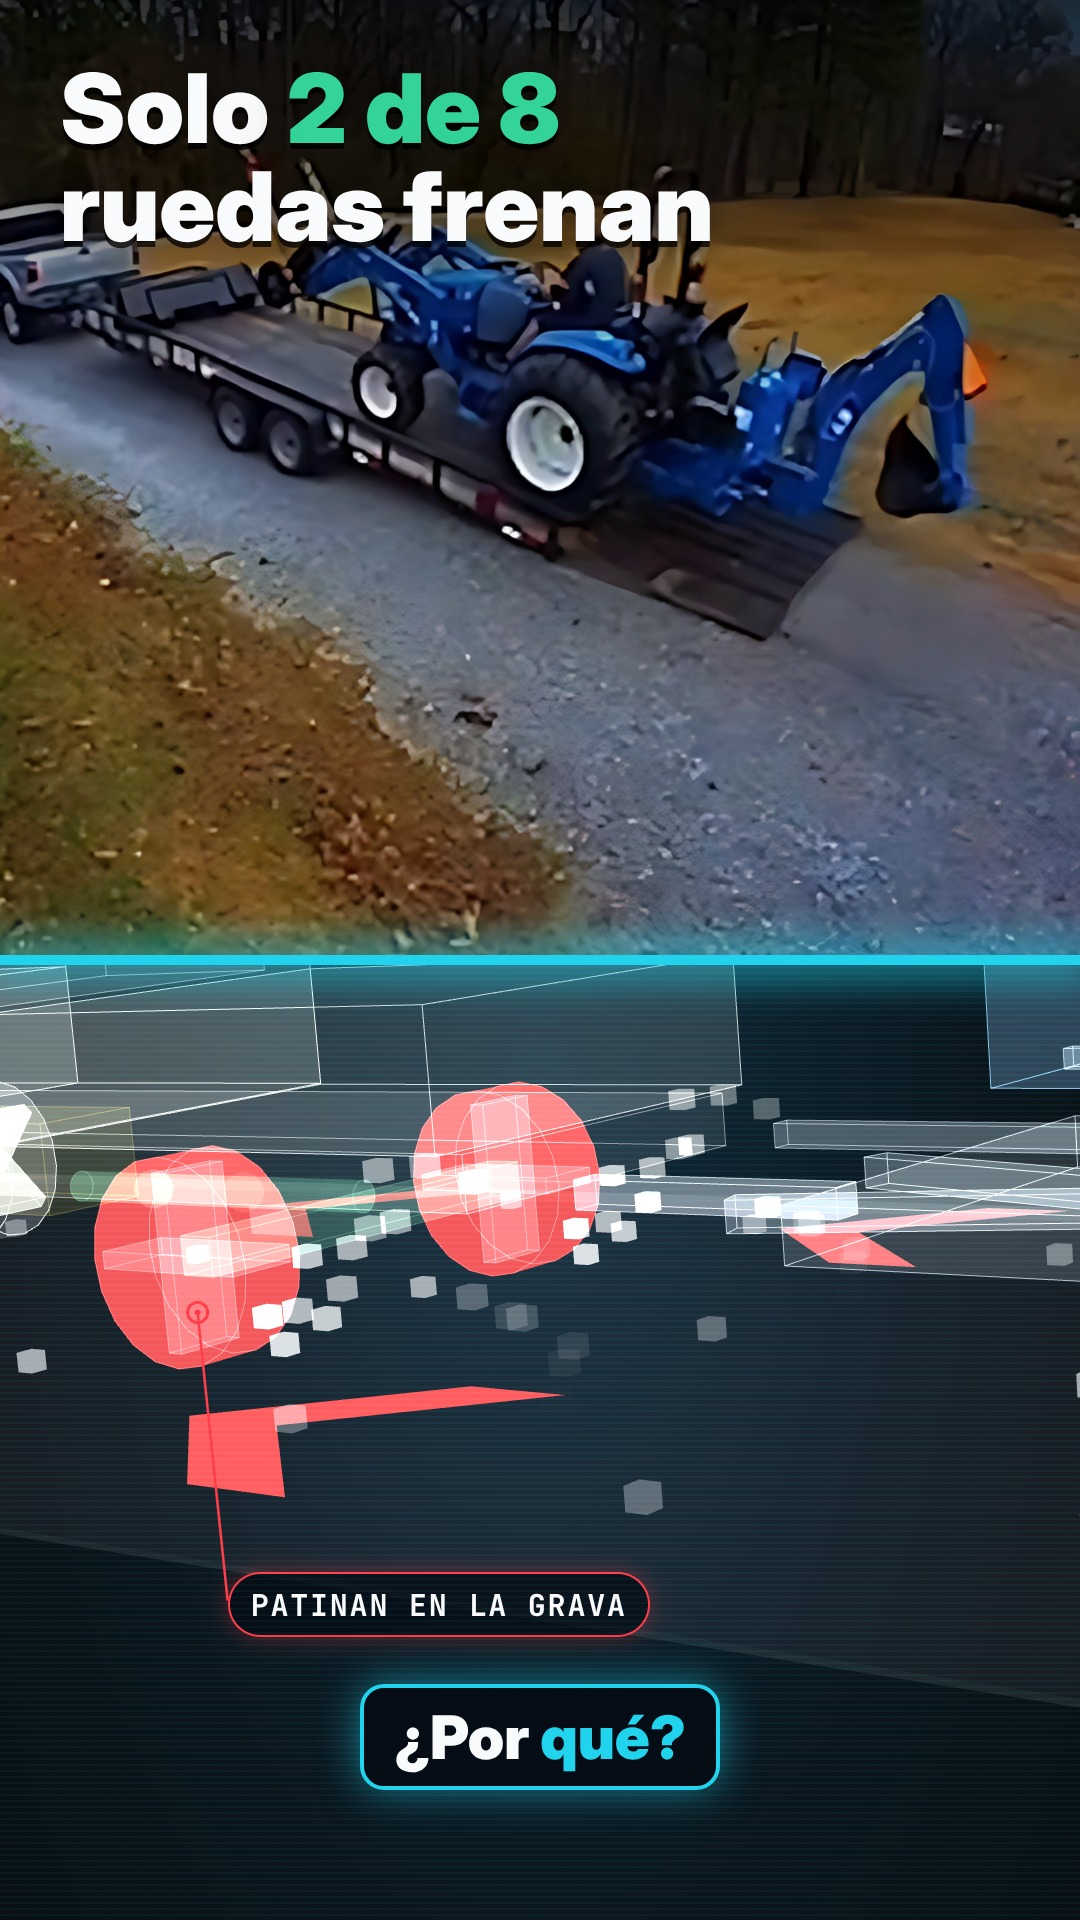
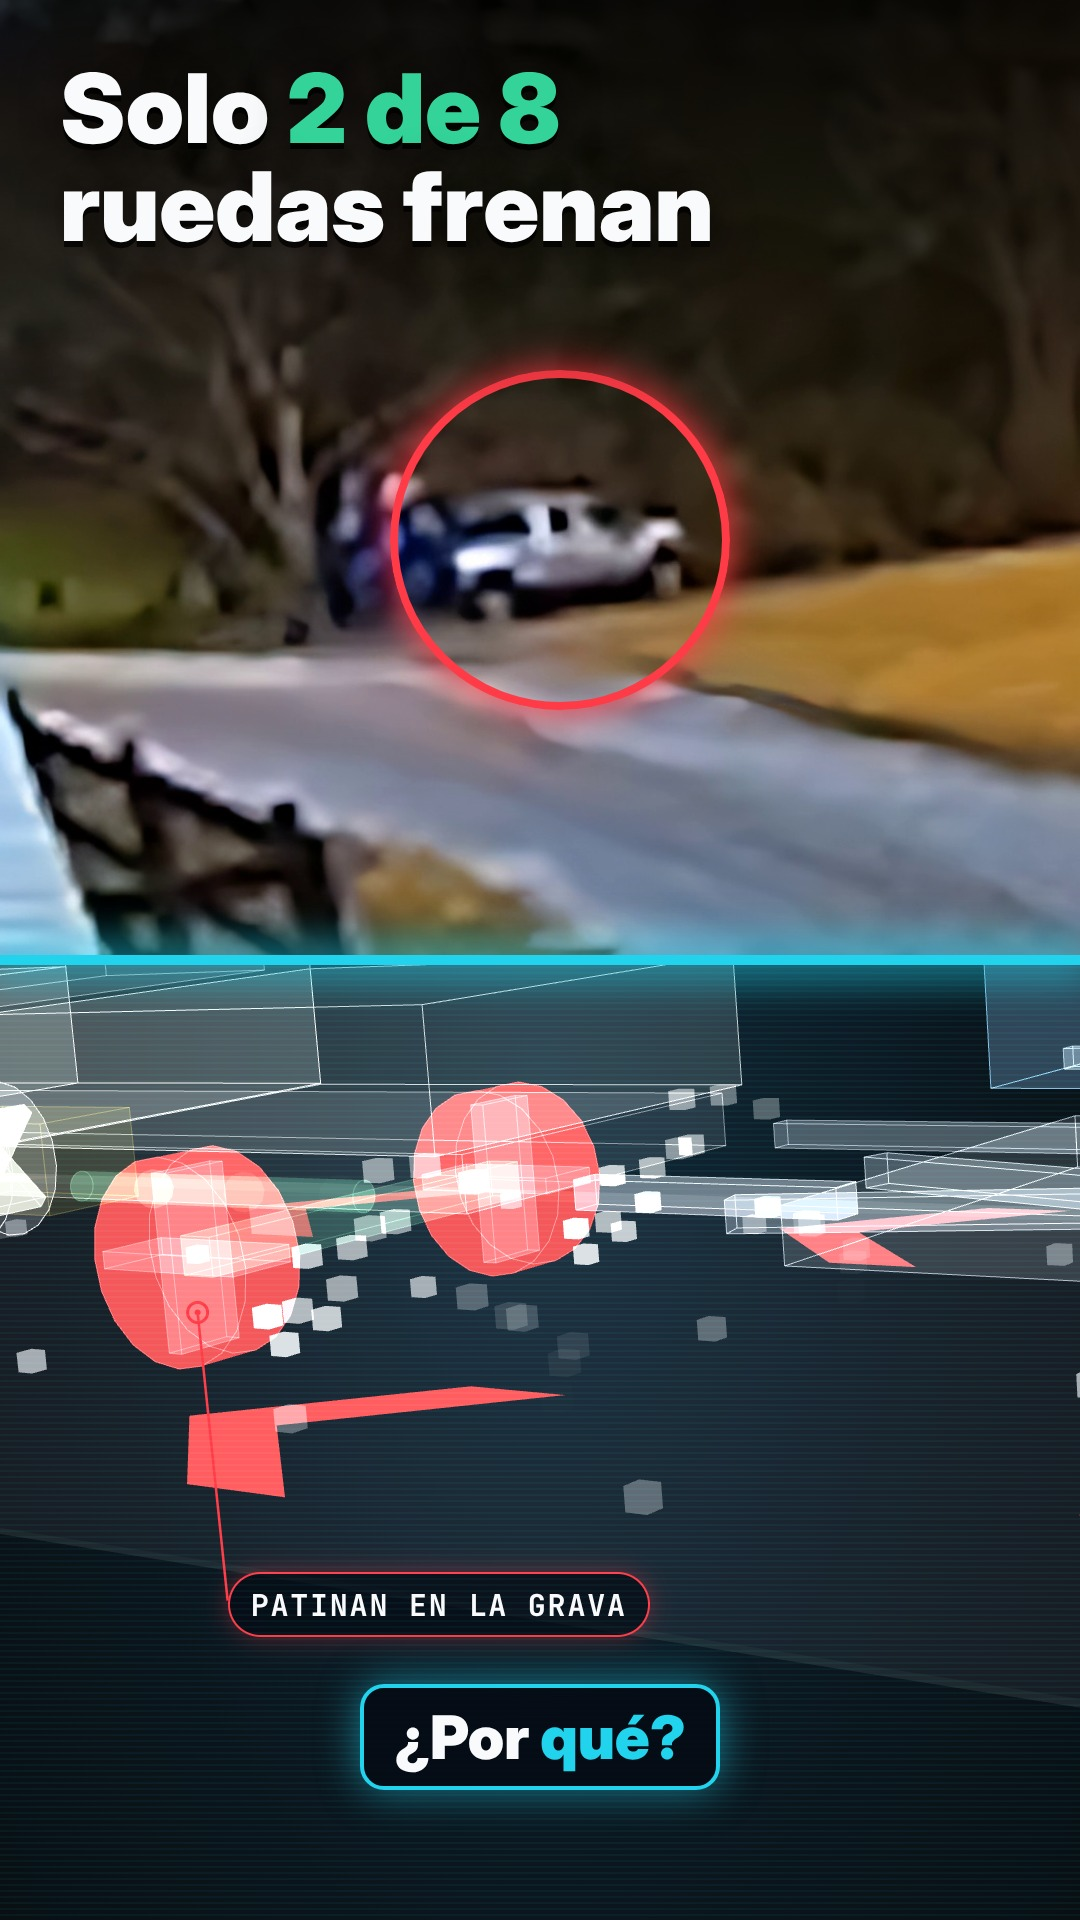
Video 09: gancho con zoom al choque y su sonido, video más grande, textos centrados en los márgenes
Claude-Session: https://claude.ai/code/session_012cMjytTKqNjFhryXJNqEWF

diff --git a/src/porquepaso/p09/Gancho.tsx b/src/porquepaso/p09/Gancho.tsx
@@ -2,26 +2,39 @@ import React from 'react';
 import {AbsoluteFill, OffthreadVideo, Sequence, interpolate, spring, staticFile, useCurrentFrame, useVideoConfig} from 'remotion';
 import {C, MONO, TITULAR} from '../estilo';
 import {Pastilla, Reticula} from '../hud';
-import {A_INI, DURACION_GANCHO, FRENO, REPE_INI, SEG} from './tiempos';
+import {A_INI, B_INI, CHOQUE, C_INI, DURACION_GANCHO, FRENO, SEG} from './tiempos';
 export {SEG, DURACION_GANCHO};
 
-// Gancho del video 09: la cámara de seguridad de la casa graba cómo la camioneta y el tráiler se van solos.
+// Gancho del video 09: la cámara de seguridad graba cómo la camioneta y el tráiler se van solos… y chocan abajo.
 const clamp = {extrapolateLeft: 'clamp', extrapolateRight: 'clamp'} as const;
-export const TOP = 440; // el monitor ocupa desde aquí
-export const ALTO = 900;
+export const TOP = 370; // el monitor ocupa de 370 a 1410
+export const ALTO = 1040;
 const ESC = ALTO / 750; // la franja original es 1080×750
-const IZQ = -60; // recorte a la izquierda (el alero de la casa)
+const IZQ = -150; // recorte a la izquierda (el alero de la casa)
 
-export const Monitor: React.FC<{desde: number; velocidad?: number; oscuro?: number; zoom?: number}> = ({desde, velocidad = 1, oscuro = 0, zoom = 1}) => {
+export const Monitor: React.FC<{clip?: 'A' | 'C'; desde: number; velocidad?: number; oscuro?: number; zoom?: number; temblor?: number}> = ({
+  clip = 'A',
+  desde,
+  velocidad = 1,
+  oscuro = 0,
+  zoom = 1,
+  temblor = 0,
+}) => {
   const f = useCurrentFrame();
   const v = (estilo: React.CSSProperties) => (
-    <OffthreadVideo src={staticFile('porquepaso/p09/A.mp4')} muted trimBefore={desde} playbackRate={velocidad} style={estilo} />
+    <OffthreadVideo src={staticFile(`porquepaso/p09/${clip}.mp4`)} muted trimBefore={desde} playbackRate={velocidad} style={estilo} />
   );
+  const dx = Math.sin(f * 2.3) * 14 * temblor;
+  const dy = Math.cos(f * 3.1) * 10 * temblor;
+  const caja: React.CSSProperties =
+    clip === 'A'
+      ? {position: 'absolute', left: IZQ, top: 0, width: 1080 * ESC, height: ALTO, transformOrigin: '30% 30%'}
+      : {position: 'absolute', left: 0, top: 0, width: 1080, height: ALTO, transformOrigin: '48% 58%'};
   return (
     <AbsoluteFill>
       <div style={{position: 'absolute', inset: -80, filter: 'blur(40px) brightness(0.45)'}}>{v({width: '100%', height: '100%', objectFit: 'cover'})}</div>
       <div style={{position: 'absolute', left: 0, top: TOP, width: 1080, height: ALTO, overflow: 'hidden', boxShadow: `0 0 0 3px ${C.cian}88, 0 0 60px ${C.cian}33`}}>
-        <div style={{position: 'absolute', left: IZQ, top: 0, width: 1080 * ESC, height: ALTO, transform: `scale(${zoom})`, transformOrigin: '25% 30%'}}>{v({width: 1080 * ESC, height: ALTO})}</div>
+        <div style={{...caja, transform: `translate(${dx}px, ${dy}px) scale(${zoom})`}}>{v({width: caja.width as number, height: ALTO, objectFit: 'cover'})}</div>
         <AbsoluteFill style={{background: `rgba(0,0,0,${oscuro})`}} />
         <div style={{position: 'absolute', left: 24, top: 20, display: 'flex', alignItems: 'center', gap: 12, fontFamily: MONO, fontWeight: 700, fontSize: 26, color: C.blanco, textShadow: '0 2px 6px #000'}}>
           <span style={{width: 18, height: 18, borderRadius: 9, background: C.rojo, opacity: Math.floor(f / 15) % 2 ? 0.3 : 1}} />
@@ -38,10 +51,13 @@ export const aPantalla = (x: number, y: number): [number, number] => [x * ESC + 
 export const Gancho: React.FC = () => {
   const frame = useCurrentFrame();
   const {fps} = useVideoConfig();
-  const tb = frame - SEG.B.desde;
-  const enRepeticion = tb >= 0;
+  const tc = frame - SEG.C.desde;
+  const enZoom = tc >= 0;
   const tw = frame - FRENO;
-  const barrido = interpolate(tb, [SEG.B.dur - 16, SEG.B.dur], [-80, 2000], clamp);
+  const tch = frame - CHOQUE;
+  const flash = interpolate(tch, [0, 2, 10], [0, 0.55, 0], clamp);
+  const temblor = interpolate(tch, [0, 1, 14], [0, 1, 0], clamp);
+  const barrido = interpolate(tc, [SEG.C.dur - 16, SEG.C.dur], [-80, 2000], clamp);
 
   return (
     <AbsoluteFill style={{background: '#000'}}>
@@ -49,23 +65,28 @@ export const Gancho: React.FC = () => {
         <Monitor desde={A_INI} />
       </Sequence>
       <Reticula centro={aPantalla(250, 215)} radio={95} color={C.ambar} inicio={84} fin={SEG.A.dur - 4} etiqueta="Se mueve sola" ladoEtiqueta="der" />
-      {/* Repetición en cámara lenta: empieza a rodar y el señor salta del tractor */}
+      {/* el señor salta del tractor y corre detrás */}
       <Sequence from={SEG.B.desde} durationInFrames={SEG.B.dur}>
-        <Monitor desde={REPE_INI} velocidad={0.75} oscuro={interpolate(tb, [0, 12], [0, 0.3], clamp)} zoom={interpolate(tb, [0, SEG.B.dur], [1, 1.12], clamp)} />
+        <Monitor desde={B_INI} />
       </Sequence>
-
-      {enRepeticion && (
-        <div style={{position: 'absolute', left: 60, top: TOP + ALTO - 80, opacity: interpolate(tb, [0, 8], [0, 1], clamp)}}>
+      {/* zoom al final de la entrada: llega abajo, se dobla y choca */}
+      <Sequence from={SEG.C.desde} durationInFrames={SEG.C.dur}>
+        <Monitor clip="C" desde={C_INI} zoom={interpolate(tc, [0, SEG.C.dur], [1, 1.18], clamp)} temblor={temblor} oscuro={interpolate(frame, [CHOQUE + 20, CHOQUE + 36], [0, 0.25], clamp)} />
+      </Sequence>
+      {enZoom && (
+        <div style={{position: 'absolute', left: 40, top: TOP + ALTO - 84, opacity: interpolate(tc, [0, 8], [0, 1], clamp)}}>
           <Pastilla color={C.ambar} punto tam={28}>
-            Repetición · cámara lenta
+            Zoom ×4 · al final de la entrada
           </Pastilla>
         </div>
       )}
+      <Reticula centro={[540, TOP + 600]} radio={150} color={C.rojo} inicio={CHOQUE - 3} fin={SEG.C.dur + SEG.C.desde - 6} etiqueta="¡Choca!" ladoEtiqueta="der" />
+      <AbsoluteFill style={{background: '#fff', opacity: flash, pointerEvents: 'none'}} />
       {tw >= -2 && (
         <div
           style={{
             position: 'absolute',
-            top: 800,
+            top: TOP + 90,
             width: '100%',
             textAlign: 'center',
             fontFamily: TITULAR,
@@ -79,18 +100,22 @@ export const Gancho: React.FC = () => {
           ¿SIN FRENO?
         </div>
       )}
-      {enRepeticion && <div style={{position: 'absolute', left: 0, top: barrido, width: '100%', height: 6, background: C.cian, boxShadow: `0 0 40px 18px ${C.cian}88`}} />}
+      {enZoom && <div style={{position: 'absolute', left: 0, top: barrido, width: '100%', height: 6, background: C.cian, boxShadow: `0 0 40px 18px ${C.cian}88`}} />}
 
-      {/* Texto fijo */}
+      {/* Texto fijo, centrado en el margen de arriba */}
+      <div style={{position: 'absolute', top: 44, left: 40, fontFamily: MONO, fontWeight: 700, fontSize: 24, letterSpacing: 1.5, color: 'rgba(248,250,252,0.85)', textShadow: '0 2px 8px rgba(0,0,0,0.9)'}}>
+        VIDEO · REDDIT
+      </div>
       <div
         style={{
           position: 'absolute',
-          top: 230,
-          left: 60,
-          right: 60,
+          top: 110,
+          left: 40,
+          right: 40,
+          textAlign: 'center',
           fontFamily: TITULAR,
           fontWeight: 900,
-          fontSize: 76,
+          fontSize: 80,
           lineHeight: 1.05,
           color: C.blanco,
           textShadow: '0 4px 24px rgba(0,0,0,0.85), 0 2px 0 rgba(0,0,0,0.9)',
@@ -99,9 +124,6 @@ export const Gancho: React.FC = () => {
         ¿Por qué se fue <span style={{color: C.cian}}>sola</span>
         <br />
         esta camioneta?
-      </div>
-      <div style={{position: 'absolute', top: 170, left: 62, fontFamily: MONO, fontWeight: 700, fontSize: 24, letterSpacing: 1.5, color: 'rgba(248,250,252,0.85)', textShadow: '0 2px 8px rgba(0,0,0,0.9)'}}>
-        VIDEO · REDDIT
       </div>
     </AbsoluteFill>
   );

diff --git a/src/porquepaso/p09/Video09.tsx b/src/porquepaso/p09/Video09.tsx
@@ -4,7 +4,7 @@ import {Gancho, Monitor} from './Gancho';
 import {Holograma} from './Holograma';
 import {PALABRAS} from './subtitulos';
 import {C, TITULAR} from '../estilo';
-import {A_INI, FRENO, DURACION_GANCHO, DURACION_P09 as DUR_TOTAL, FIN_CARD, FPS, H, FIN, INICIO, INI_HOLO, VOZ_ORDEN} from './tiempos';
+import {A_INI, CHOQUE, SONIDO_REAL, FRENO, DURACION_GANCHO, DURACION_P09 as DUR_TOTAL, FIN_CARD, FPS, H, FIN, INICIO, INI_HOLO, VOZ_ORDEN} from './tiempos';
 
 
 // =====================================================================
@@ -20,7 +20,8 @@ const VOZ: [string, number, boolean][] = VOZ_ORDEN.map((id) => [id, INICIO[id], 
 // Efectos: [archivo, fotograma, volumen]. Los "fiu" van muy bajos (regla del usuario); sin estática de radio.
 // Sin heridos: la música no baja.
 const SFX: [string, number, number][] = [
-  ['impacto', FRENO - 2, 0.16],
+  ['impacto', FRENO - 2, 0.12],
+  ['impacto', CHOQUE, 0.5], // refuerza el golpe del choque real
   ['escaneo', INI_HOLO - 14, 0.042],
   ['clic', INI_HOLO + H.PERNO_W + 4, 0.8], // el perno cae en la rueda dentada
   ['clic', INI_HOLO + H.TRABA, 0.5],
@@ -69,7 +70,7 @@ const Subtitulos: React.FC = () => {
     });
     const entrada = interpolate((t - b[0][1]) * FPS, [0, 4], [0.85, 1], {extrapolateLeft: 'clamp', extrapolateRight: 'clamp', easing: Easing.out(Easing.back(2))});
     return (
-      <div style={{position: 'absolute', top: 1540, width: '100%', display: 'flex', justifyContent: 'center'}}>
+      <div style={{position: 'absolute', top: 1620, width: '100%', display: 'flex', justifyContent: 'center'}}>
         <div
           style={{
             transform: `scale(${entrada})`,
@@ -150,8 +151,8 @@ const FirmaCanal: React.FC = () => {
     style={{
       opacity: op,
       position: 'absolute',
-      top: 164,
-      right: 62,
+      top: 36,
+      right: 40,
       fontFamily: "'JetBrains Mono', monospace",
       fontWeight: 700,
       fontSize: 26,
@@ -192,6 +193,10 @@ export const Video09: React.FC = () => {
           <Audio src={staticFile(`porquepaso/p09/voz/${nombre}.mp3`)} volume={1} />
         </Sequence>
       ))}
+      {/* Sonido real del choque (del video original) */}
+      <Sequence from={SONIDO_REAL}>
+        <Audio src={staticFile('porquepaso/p09/choque.wav')} volume={(f) => interpolate(f, [0, 4, 46, 62], [0, 1.6, 1.6, 0], {extrapolateLeft: 'clamp', extrapolateRight: 'clamp'})} />
+      </Sequence>
       {SFX.map(([nombre, desde, vol], i) => (
         <Sequence key={i} from={desde}>
           <Audio src={staticFile(`porquepaso/sfx/${nombre}.wav`)} volume={vol} />

diff --git a/src/porquepaso/p09/tiempos.ts b/src/porquepaso/p09/tiempos.ts
@@ -9,7 +9,7 @@ export const FPS = 30;
 const ORDEN: [string, number][] = [
   ['01_sola', 3], // la voz entra desde el inicio: así el bucle empalma con nuestra voz
   ['02_freno', 4],
-  ['03_igual', 4],
+  ['03_igual', 45], // deja sonar el choque real antes de seguir
   ['04_perno', 8],
   ['05_atras', 6],
   ['06_libres', 5],
@@ -52,19 +52,23 @@ export function marca(id: string, palabra: string): number {
 }
 
 // ---------- Gancho (cámara de seguridad de la casa) ----------
-// A.mp4 = segundos 0–14 del original (recorte de la franja de video, mejorado con ESRGAN).
-// El gancho empieza en su cuadro 90 (segundo 3.0): los cuadros 0–90 van en la tarjeta final (bucle).
+// A.mp4 = segundos 0–10 del original (franja de video mejorada con ESRGAN).
+// C.mp4 = segundos 14.6–18.8, recorte ampliado ×4 del final de la entrada (donde choca).
+// El gancho empieza en el cuadro 90 de A (segundo 3.0): los cuadros 0–90 van en la tarjeta final (bucle).
 export const A_INI = 90;
-export const REPE_INI = 198; // segundo 6.6: la camioneta empieza a rodar y el señor salta del tractor
+export const B_INI = 240; // segundo 8.0: el señor salta del tractor y corre detrás
+export const C_INI = 18; // segundo 15.2 (en C.mp4): llega abajo, se dobla y choca
 export const SEG = {
-  A: {desde: 0, dur: 0}, // sube el tractor y todo empieza a rodar
-  B: {desde: 0, dur: 0}, // repetición en cámara lenta + "¿SIN FRENO?"
+  A: {desde: 0, dur: 114}, // sube el tractor y todo empieza a rodar
+  B: {desde: 114, dur: 60}, // el señor salta y corre
+  C: {desde: 174, dur: 0}, // zoom al choque + "¿SIN FRENO?"
 };
-SEG.B.desde = INICIO['02_freno'] - 2;
-SEG.A.dur = SEG.B.desde;
+const enC = (segOriginal: number) => SEG.C.desde + Math.round((segOriginal - 15.2) * FPS);
+export const CHOQUE = enC(16.95); // golpe (el sonido real llega aquí)
+export const SONIDO_REAL = enC(16.5); // desde aquí suena el audio original (el choque)
 export const FRENO = marca('02_freno', 'freno');
 export const INI_HOLO = marca('03_igual', 'aunque') - 4;
-SEG.B.dur = INI_HOLO - SEG.B.desde;
+SEG.C.dur = INI_HOLO - SEG.C.desde;
 export const DURACION_GANCHO = INI_HOLO;
 
 // ---------- Holograma (relativo a INI_HOLO) ----------

diff --git a/src/porquepaso/canal/Miniaturas9.tsx b/src/porquepaso/canal/Miniaturas9.tsx
@@ -6,6 +6,7 @@ import {Simbolo} from './Marca';
 // Miniaturas del video 09 (la camioneta que se fue sola al cargar el tractor)
 const R9 = staticFile('porquepaso/canal/p09_carga.png'); // 1620×1124: el tractor ya en el tráiler
 const R9B = staticFile('porquepaso/canal/p09_real.png'); // 1620×1124: todo rueda cuesta abajo
+const R9C = staticFile('porquepaso/canal/p09_choque.png'); // 1040×1000: el choque al final de la entrada (zoom)
 const H9P = staticFile('porquepaso/canal/p09_holo_patinan.png'); // 1080×1920: las ruedas trabadas patinan
 const H9G = staticFile('porquepaso/canal/p09_holo_perno.png'); // 1080×1920: el perno de Park
 
@@ -53,7 +54,8 @@ export const M9A: React.FC = () => (
 export const M9B: React.FC = () => (
   <AbsoluteFill style={{background: '#000'}}>
     <div style={{position: 'absolute', top: 0, left: 0, width: 1080, height: 960, overflow: 'hidden'}}>
-      <Img src={R9} style={{position: 'absolute', height: 1000, left: -330, top: -20}} />
+      <Img src={R9C} style={{position: 'absolute', width: 1080, left: 0, top: -60}} />
+      <div style={{position: 'absolute', left: 390, top: 370, width: 340, height: 340, borderRadius: 170, border: `8px solid ${C.rojo}`, boxShadow: `0 0 40px ${C.rojo}`}} />
     </div>
     <div style={{position: 'absolute', top: 960, left: 0, width: 1080, height: 960, overflow: 'hidden', background: '#01040a'}}>
       <Img src={H9P} style={{position: 'absolute', width: 1080, left: 0, top: -730}} />

diff --git a/guiones/p09_publicacion.md b/guiones/p09_publicacion.md
@@ -3,12 +3,12 @@
 
 ## Título (el 1 es el recomendado)
 1. **¿Por qué se fue sola esta camioneta? No fue el freno 🚜**
-2. Subía su tractor al tráiler… y la camioneta se fue sola 🚜
+2. Subía su tractor al tráiler… y la camioneta se fue sola y chocó 🚜
 3. Estaba en Park y aun así se fue: la razón 🚜
 
 ## Descripción (copiar y pegar)
 ```
-¿Cómo puede irse sola una camioneta estacionada? Un señor subía su tractor a un tráiler en la entrada de su casa… y la camioneta, el tráiler y el tractor empezaron a rodar cuesta abajo. Todos dijeron lo mismo: se le olvidó el freno. Pero aunque lo tuviera puesto, pudo pasar igual. En Park, lo que detiene a una camioneta es un pequeño perno de metal dentro de la caja de cambios, y ese perno, igual que el freno de mano, solo traba las ruedas de atrás. Las del frente y las cuatro del tráiler giran libres. La entrada estaba en bajada y, al subir el tractor (más de una tonelada), el empuje cuesta abajo creció de golpe. Sobre grava, dos ruedas trabadas no aguantan: patinan… y todo se va. Te lo mostramos en 3D.
+¿Cómo puede irse sola una camioneta estacionada? Un señor subía su tractor a un tráiler en la entrada de su casa… y la camioneta, el tráiler y el tractor empezaron a rodar cuesta abajo… hasta chocar al final de la entrada. Todos dijeron lo mismo: se le olvidó el freno. Pero aunque lo tuviera puesto, pudo pasar igual. En Park, lo que detiene a una camioneta es un pequeño perno de metal dentro de la caja de cambios, y ese perno, igual que el freno de mano, solo traba las ruedas de atrás. Las del frente y las cuatro del tráiler giran libres. La entrada estaba en bajada y, al subir el tractor (más de una tonelada), el empuje cuesta abajo creció de golpe. Sobre grava, dos ruedas trabadas no aguantan: patinan… y todo se va. Te lo mostramos en 3D.
 
 ✅ Antes de cargar un tractor o una máquina: suelo plano, freno de mano y calzas en las ruedas del tráiler.
 
@@ -25,7 +25,7 @@
 
 ## Etiquetas
 ```
-camioneta se fue sola, camioneta rodando sola, tractor trailer, cargar tractor en trailer, trailer rodando, camioneta en park, parking pawl, perno de estacionamiento, freno de mano, calzas de ruedas, como cargar un tractor, remolque, pickup, truck rolls away, loading tractor on trailer, what could go wrong, whatcouldgowrong, accidentes explicados, fisica, ciencia, por que paso, porquepaso, explicado en 3d
+camioneta se fue sola, camioneta rodando sola, camioneta choca sola, tractor trailer, cargar tractor en trailer, trailer rodando, camioneta en park, parking pawl, perno de estacionamiento, freno de mano, calzas de ruedas, como cargar un tractor, remolque, pickup, truck rolls away, loading tractor on trailer, what could go wrong, whatcouldgowrong, accidentes explicados, fisica, ciencia, por que paso, porquepaso, explicado en 3d
 ```
 
 ## Miniatura
